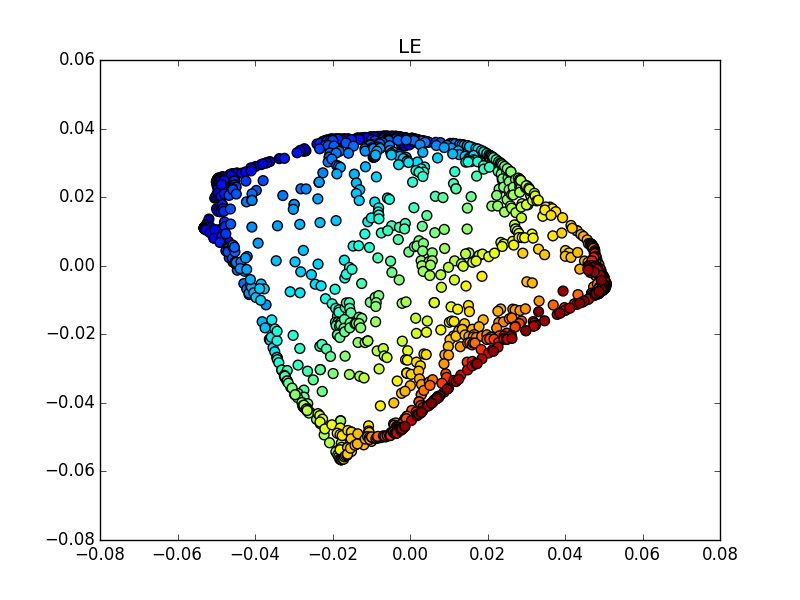
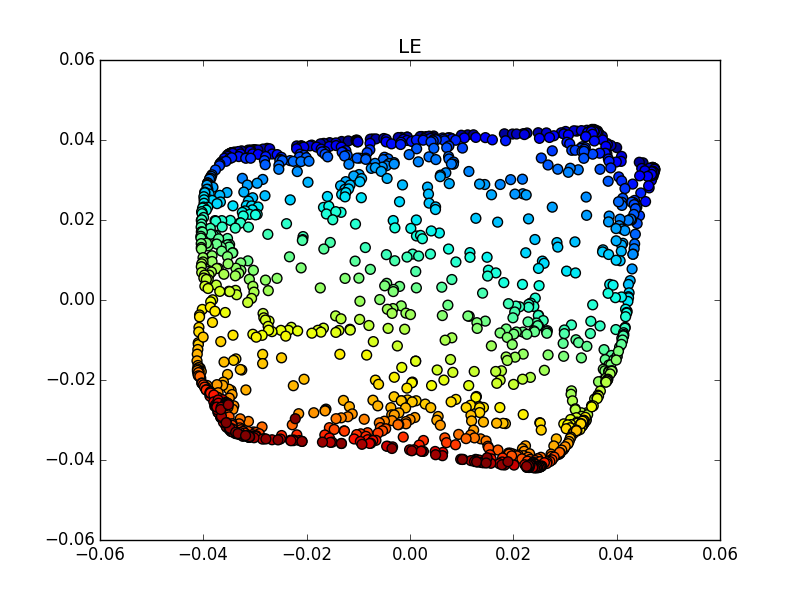
modify LLE

diff --git a/LE/LE.py b/LE/LE.py
@@ -2,7 +2,7 @@
 Author: GanJi
 No.201518008629004
 
-Spectral Clustering
+LLE
 '''
 import os
 import scipy.io as sio
@@ -19,7 +19,7 @@ le_fig = 'le.png'
 
 calc_dist = lambda x, y: sum(i * i for i in (x - y))
 
-def k_nearest_neigbor_weights(data, point, k_edge, varance = 10):
+def k_nearest_neigbor_weights(data, point, k_edge):
     dist_index = []
     dists = []
     m = len(data)
@@ -27,30 +27,33 @@ def k_nearest_neigbor_weights(data, point, k_edge, varance = 10):
     for i in range(0, m):
         dists.append(calc_dist(data[i], point))
     dist_index =  np.argsort(dists)[1 : k_edge + 1]
-    weights = [np.exp(- dists[i] * 1.0 / (2 * varance * varance)) for i in dist_index]
-    
-    return dist_index, weights
+   
+    return dist_index
 
-def calc_M(data, k_edge = 10, varance = 10):
+def calc_M(data, k_edge = 10):
     m = len(data)
     W = np.zeros((m, m), dtype = 'float')
     print '[calc_M] begin'
     for i in range(0, m):
         print '%4.2f%%'%(i * 100.0 / m)
-        index, weights =  k_nearest_neigbor_weights(data, data[i], k_edge, varance)
-        sum_weights = sum(weights)
-        for j in range(0, len(index)):
-            W[i, index[j]] = weights[j] / sum_weights
+        index =  k_nearest_neigbor_weights(data, data[i], k_edge)
+        mean_zero = np.mat(data[index, :] - data[i, :])
+        G = mean_zero * mean_zero.T
+        u, s, v = np.linalg.svd(G)
+        r = np.sqrt( sum(s**2))
+        G += np.eye(k_edge) * r
+        Wi = np.linalg.solve(G, np.ones((k_edge, 1), dtype = 'float'))[:,0]
+        Wi = Wi / np.sum(Wi)
+        W[i, index] = Wi
 
     M = np.mat(np.eye(m)) - np.mat(W)
     M = M.T * M
-  
+        
     print '[calc_M] end'
-
-    return M
+    return M  
 
 def get_LE(M, k):
-    print '[LE] begin'
+    print '[LLE] begin'
     eig_values, eig_vecs = np.linalg.eig(M)
     eig_values = eig_values.real
     eig_vecs = eig_vecs.real
@@ -65,7 +68,7 @@ def get_LE(M, k):
             break
 
     T = np.array(np.hstack(T))
-    print '[LE] end'
+    print '[LLE] end'
     return T
 
 def plot_data_2d(data, title = '', save_fig = ''):
@@ -94,7 +97,7 @@ def plot_data_3d(data, title = '', save_fig = ''):
 
 def run():
     scroll_data_3d = sio.loadmat(location + data_name)['data']
-    M = calc_M(scroll_data_3d, 20, 10)
+    M = calc_M(scroll_data_3d, 17)
     low_data = get_LE(M, 2)
     plot_data_3d(scroll_data_3d, 'scroll_data', location + origin_fig)
     plot_data_2d(low_data, 'LE', location + le_fig)
